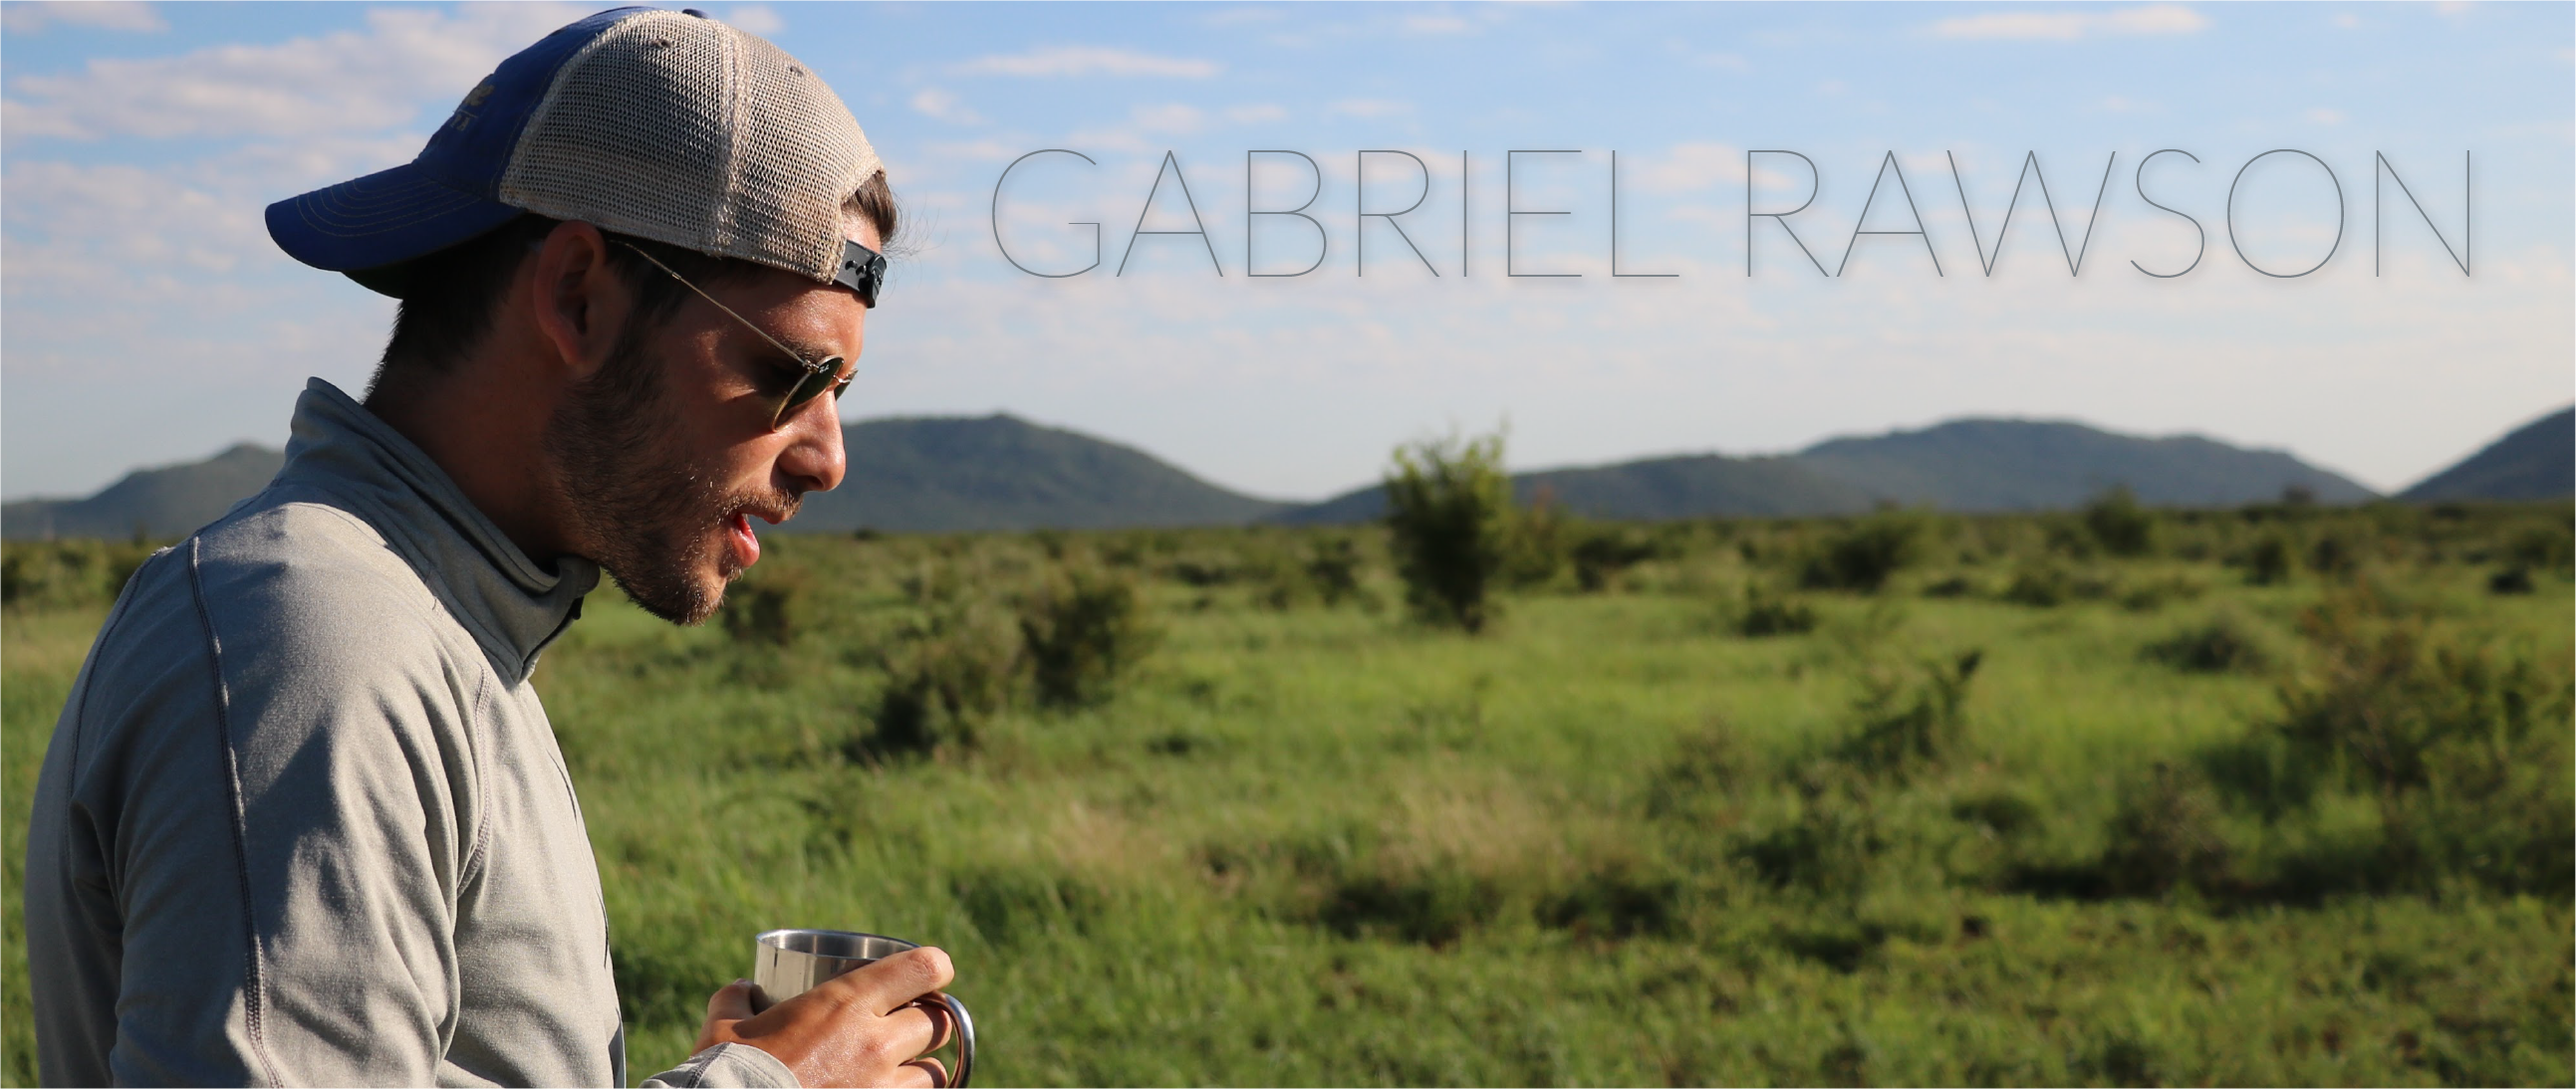
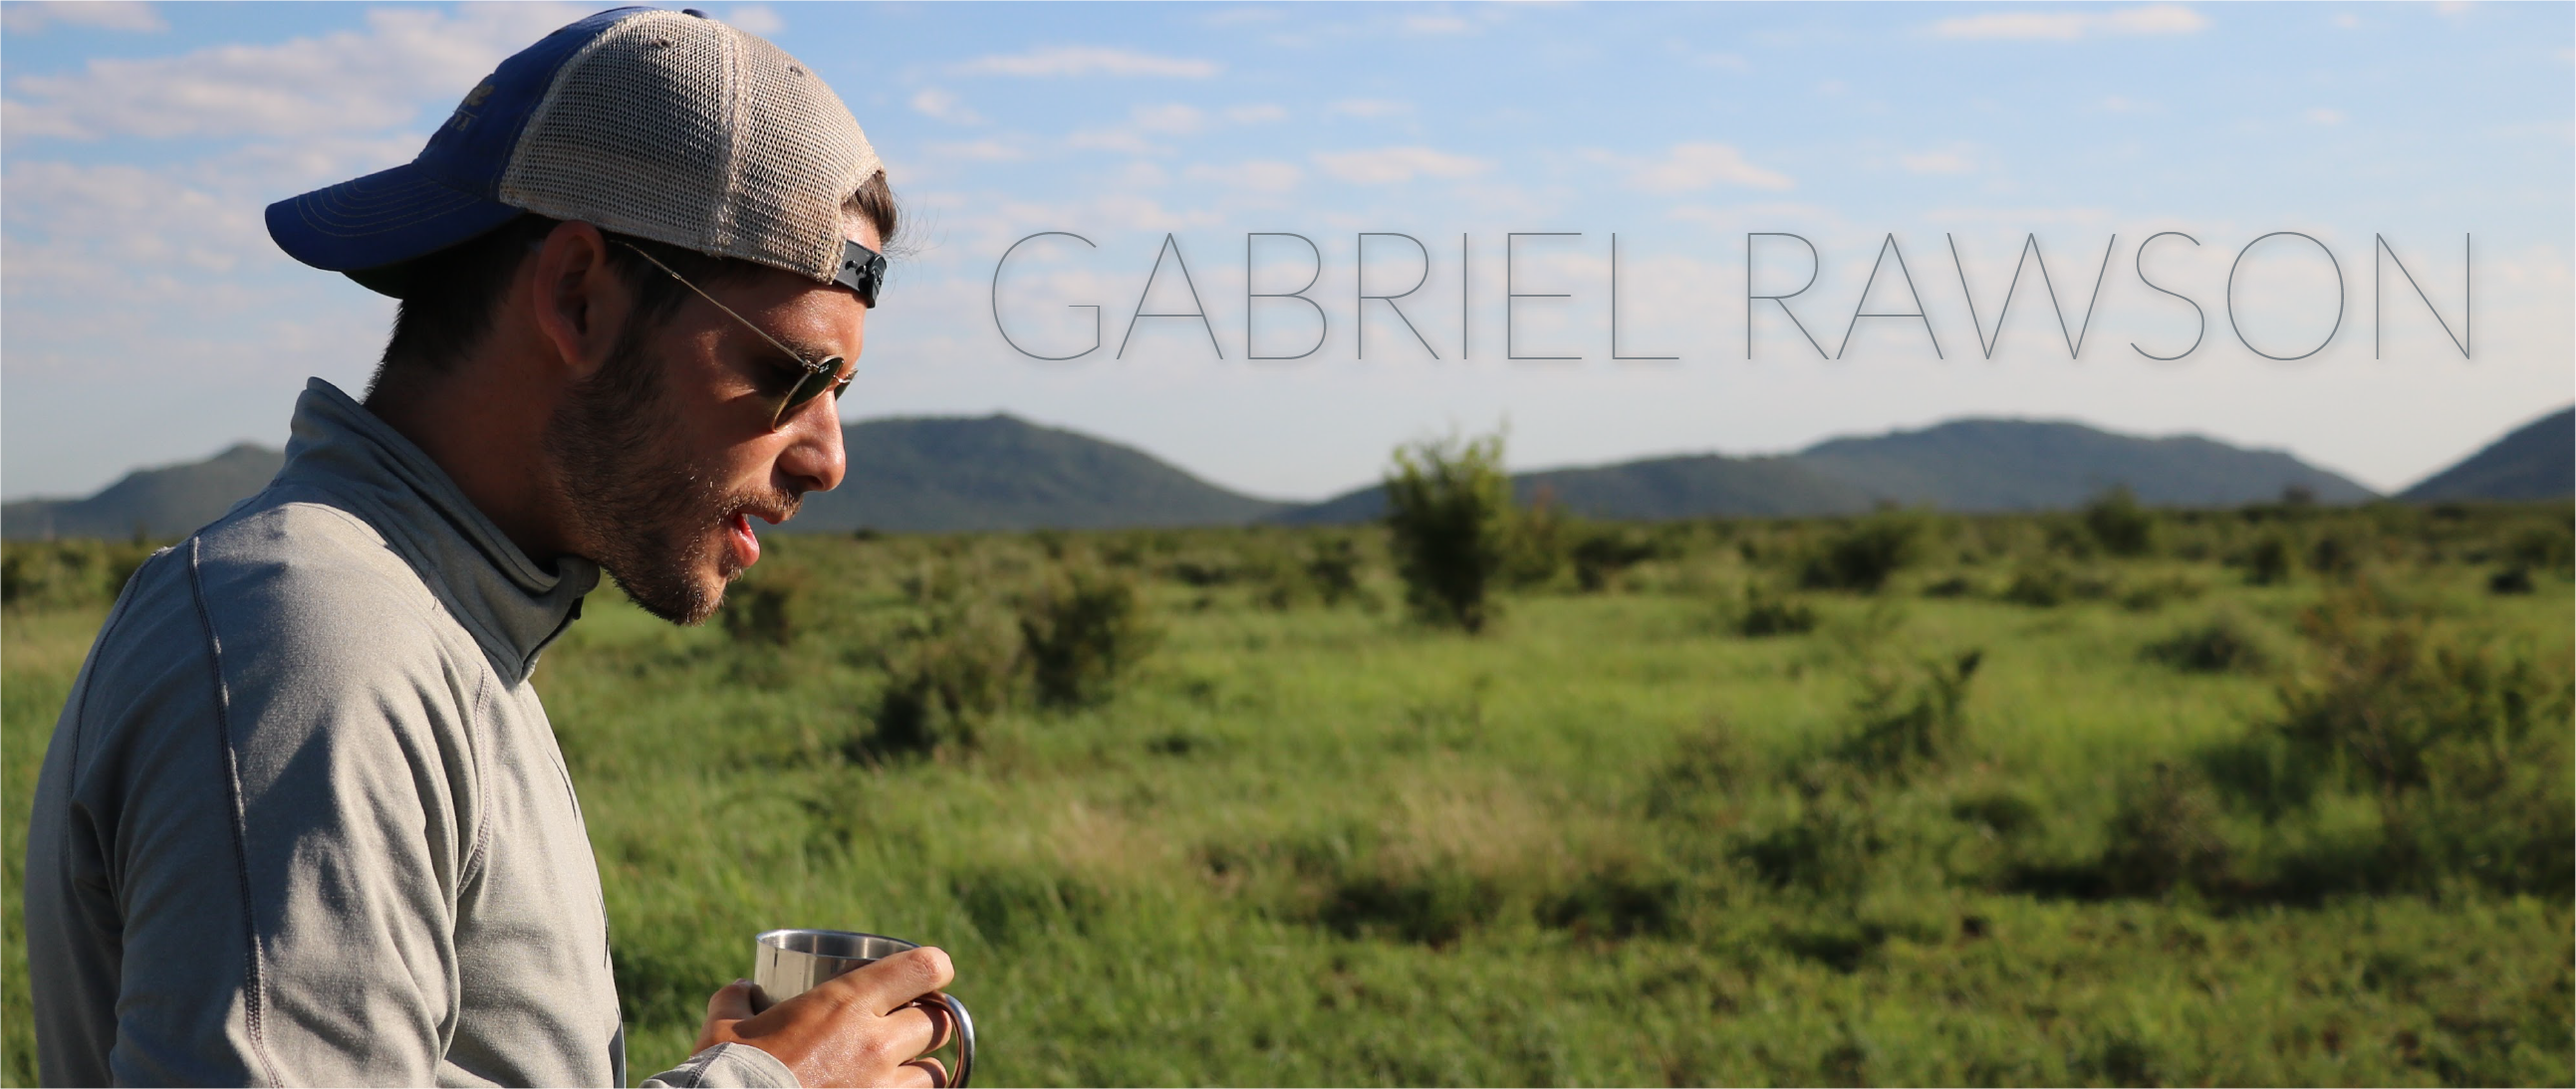
black theme - added project

diff --git a/_css/spring-fair.css b/_css/spring-fair.css
@@ -2,9 +2,20 @@
 
 /********************************* Misc *********************************/
 
+section {
+    margin-top: -3px;
+}
+
+.break {
+    display: inline-block;;
+    text-align: center;
+}
+
 #project-title {
-    font-family: "Lato Light";
-    color: #7a7a7a;
+    font-family: "Gotham Light";
+    color: #363945;
+    display: block;
+    margin-top: 16px;
 }
 
 #header-img {
@@ -14,17 +25,21 @@
 
 /********************************* Features *********************************/
 
+#feature-image {
+    height: 65px;
+}
+
 .feature-title {
-    margin: 8px 0 8px 0;
-    color: #383838;
-    font-family: "Lato Bold";
+    margin: 20px 0 5px 0;
+    color: #bac3ed;
+    font-family: "Gotham Bold";
 }
 
 .feature-body {
     margin: 0px;
     word-wrap: break-word;
-    color: #7a7a7a;
-    font-family: "Lato Regular";
+    color: #7a809c;
+    font-family: "Gotham Light";
     font-size: 9pt;
     line-height: 150%;
 }
@@ -32,5 +47,5 @@
 .feature {
     width: 200px;
     height: 100%;
-    margin: 20px 20px 50px 20px;
+    margin: 0px 20px 60px 20px;
 }

diff --git a/_js/nav.js b/_js/nav.js
@@ -6,7 +6,11 @@ $(document).ready(function() {
     var dropdown = $("#dropdown")
 
     var navItems = [
-        "spring-fair", "experience", "contact"
+        "experience", "contact"
+    ];
+
+    var dropdownItems = [
+        "spring-fair"
     ];
 
     /**************** func ************************/
@@ -33,6 +37,11 @@ $(document).ready(function() {
     for (i in navItems) {
         if(document.URL.indexOf(navItems[i]) != -1) {
             $("#" + navItems[i]).addClass("active");
+        }
+    }
+    for (i in dropdownItems) {
+        if(document.URL.indexOf(dropdownItems[i]) != -1) {
+            $("#" + dropdownItems[i]).addClass("dropdown-active");
         }
     }
 

diff --git a/_css/nav.css b/_css/nav.css
@@ -39,7 +39,7 @@ nav a {
     display: block;
 }
 
-.right-nav-link:hover, .dropdown-content:hover, .active {
+.right-nav-link:hover, .active {
     background-color: rgba(26,28,33,0.3);
     color: #ee8c72;
 }
@@ -56,6 +56,11 @@ nav a {
 }
 
 /********************************* Dropdown *********************************/
+
+
+.dropdown-content:hover, .dropdown-active {
+    color: #ee8c72;
+}
 
 #dropdown {
     background-color: rgba(26,28,33,0.5);

diff --git a/_css/home.css b/_css/home.css
@@ -26,17 +26,9 @@ section {
 .bio-body {
     margin: 0;
     text-align: left;
-    color: #868c9e;
+    color: #7a809c;
     line-height: 150%;
     font-family: "Gotham Light";
-
-}
-
-.break {
-    background-color: #121317;
-    height: 50px;
-    width: 100%;
-    margin-bottom: 70px;
 
 }
 

diff --git a/_css/common/fonts.css b/_css/common/fonts.css
@@ -40,3 +40,8 @@ GOTHAM-LIGHTITALIC@font-face {
     font-family: "Gotham Light";
     src: url("/supporting-files/fonts/GOTHAM-LIGHT.ttf");
 }
+
+@font-face {
+    font-family: "Gotham Bold";
+    src: url("/supporting-files/fonts/GOTHAM-BOLD.ttf");
+}

diff --git a/_css/common/elements.css b/_css/common/elements.css
@@ -5,6 +5,14 @@
     margin-bottom: 20px;
 }
 
+.break {
+    background-color: #121317;
+    height: 50px;
+    width: 100%;
+    margin-bottom: 70px;
+
+}
+
 p {
     font-family: "Lato";
 }
